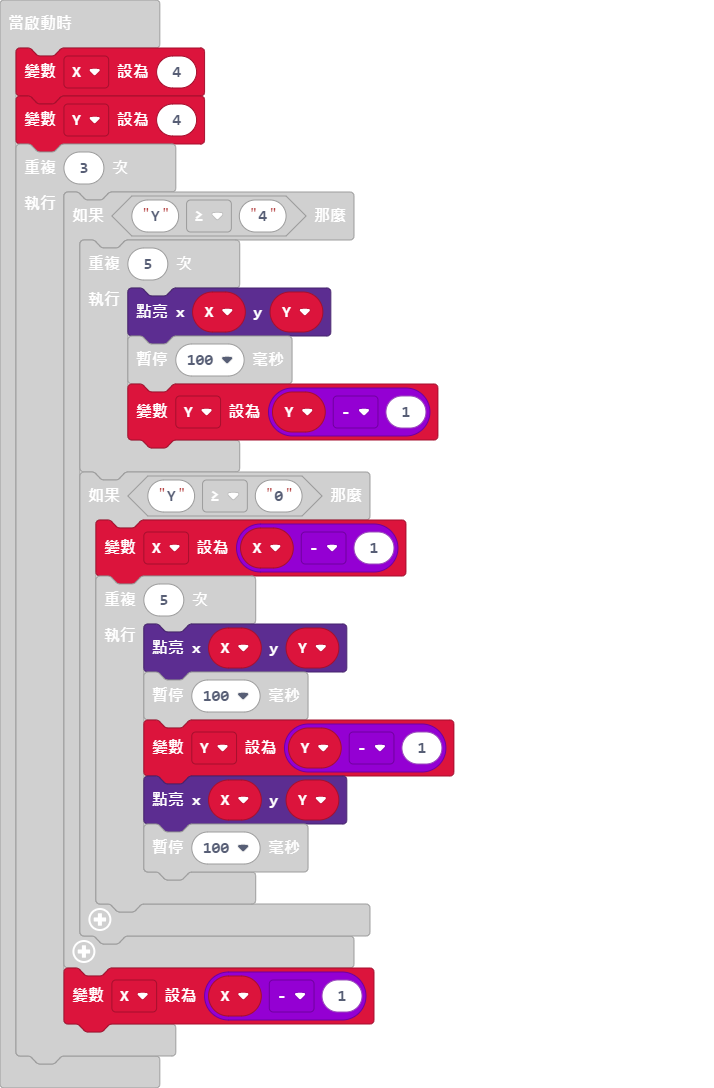
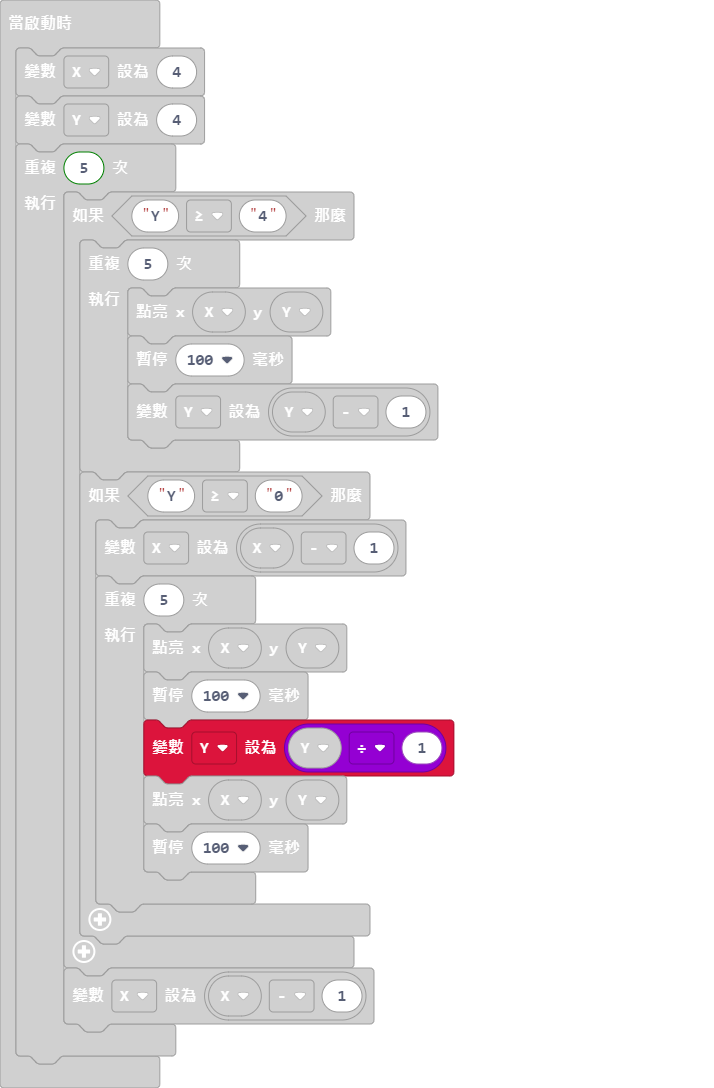
Update main.blocks, main.ts

diff --git a/main.ts b/main.ts
@@ -1,6 +1,6 @@
 let X = 4
 let Y = 4
-for (let index = 0; index < 3; index++) {
+for (let index = 0; index < 5; index++) {
     if ("Y" >= "4") {
         for (let index = 0; index < 5; index++) {
             led.plot(X, Y)
@@ -12,7 +12,7 @@ for (let index = 0; index < 3; index++) {
             for (let index = 0; index < 5; index++) {
                 led.plot(X, Y)
                 basic.pause(100)
-                Y = Y - 1
+                Y = Y / 1
                 led.plot(X, Y)
                 basic.pause(100)
             }
